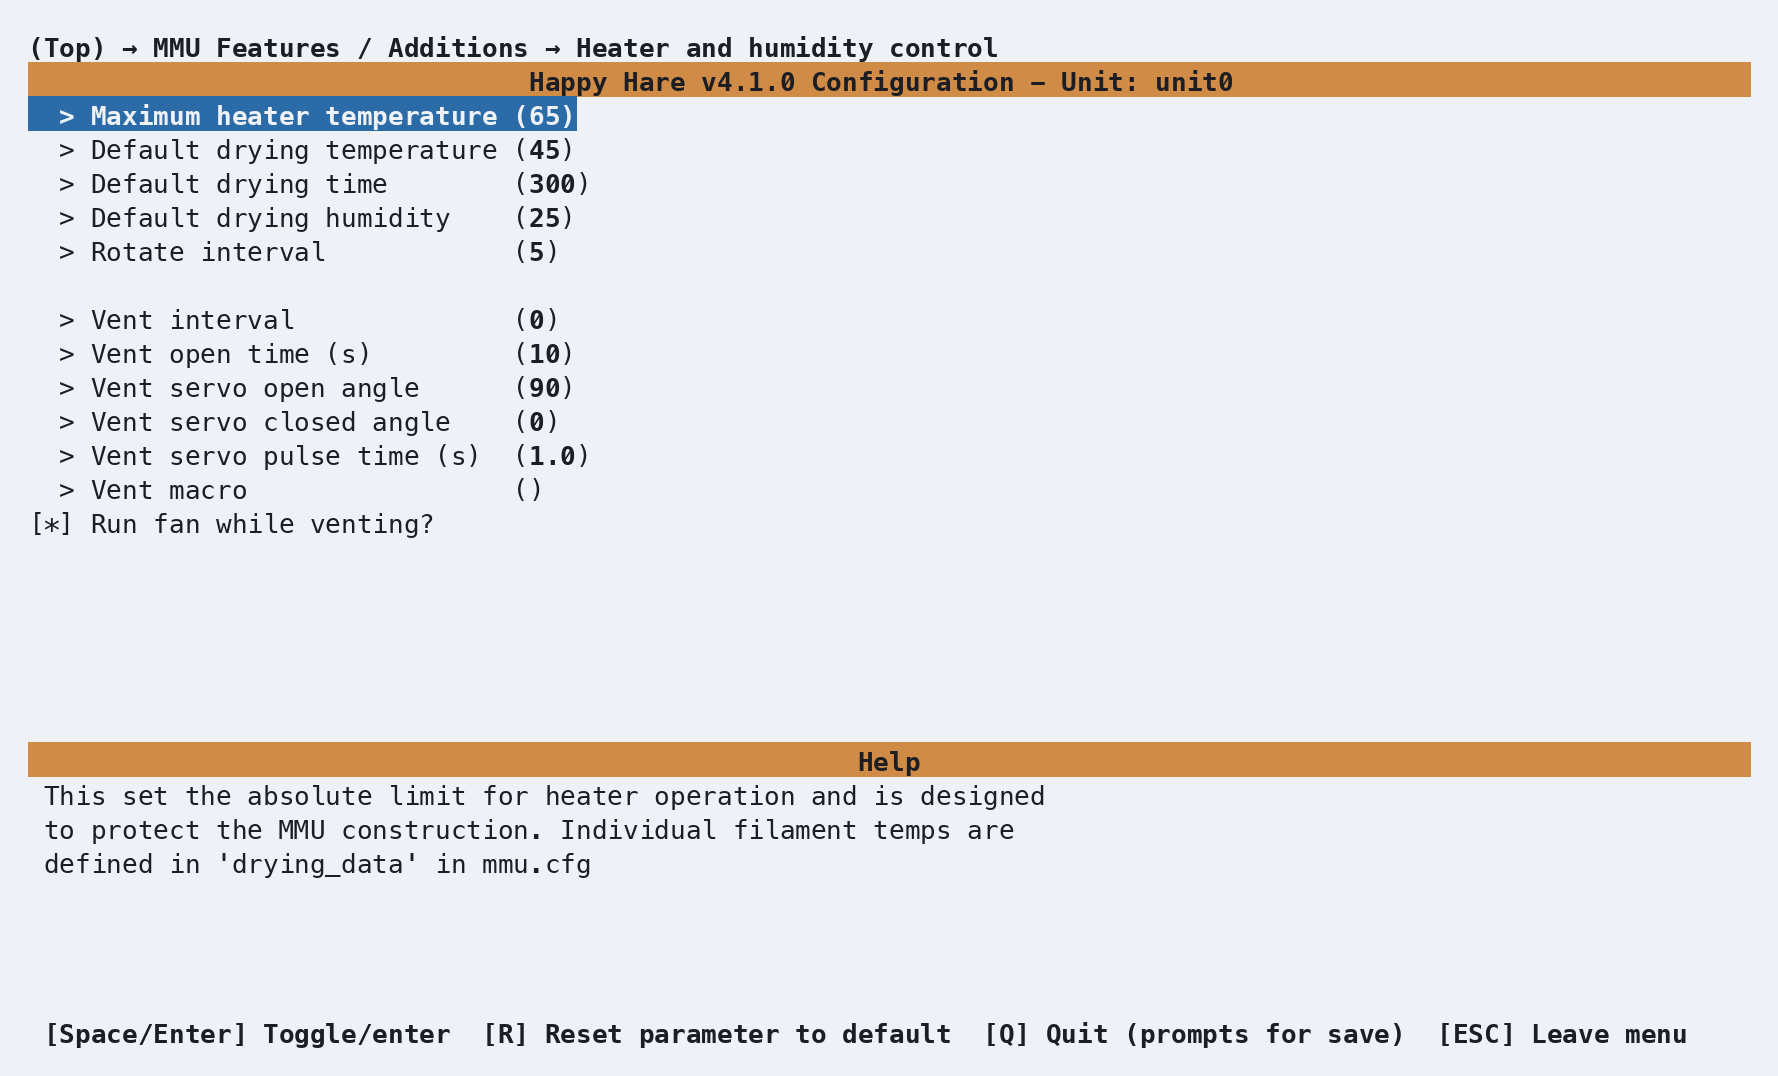
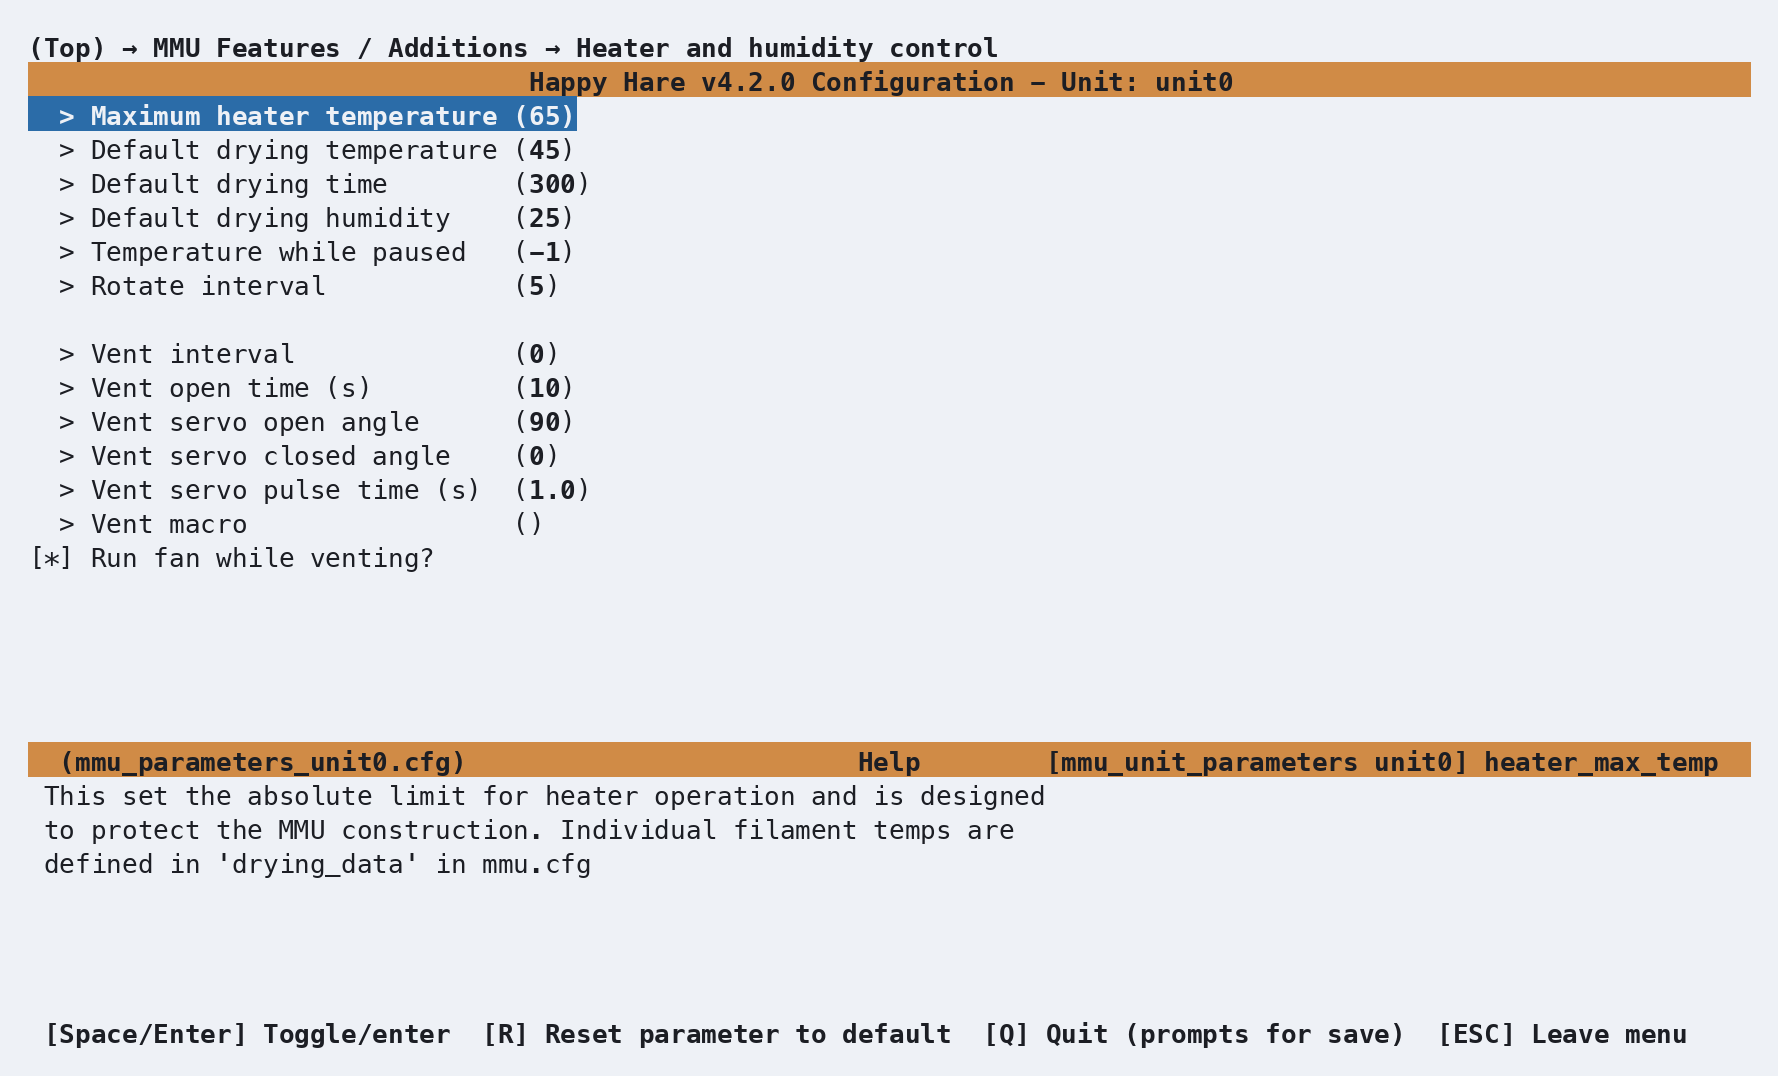
docs: explain drying heater temperature during print pauses

Changed region(s): [[0.0309, 0.2147, 0.3403, 0.5214], [0.5877, 0.7054, 0.9589, 0.7361], [0.0309, 0.7054, 0.2475, 0.7361]]

diff --git a/doc/Feature-Environment-Manager.md b/doc/Feature-Environment-Manager.md
@@ -162,7 +162,7 @@ The **Heater and humidity control** submenu contains the drying limits and
 defaults. A per-gate layout also shows **Maximum concurrent heaters** here.
 
 <p align="center">
-  <img src="Feature-Environment-Manager/heater-control.png" alt="Heater and humidity control: concurrency limit, drying defaults, venting and spool rotation settings" width="80%">
+  <img src="Feature-Environment-Manager/heater-control.png" alt="Heater and humidity control: drying defaults, pause temperature, venting and spool rotation settings" width="80%">
 </p>
 
 The heater controller's own tuning constants live in `mmu_parameters.cfg`;
@@ -174,6 +174,7 @@ heater_max_temp             : 65     # Absolute ceiling; drying never targets ab
 heater_default_dry_temp     : 45     # Fallback drying temperature for an unrecognized or empty gate
 heater_default_dry_time     : 300    # Fallback drying time in minutes
 heater_default_dry_humidity : 25     # Default humidity % goal - drying ends early if reached
+heater_pause_temp           : -1     # Print pause: -1 keeps drying, 0 turns heat off, positive value limits temperature
 heater_rotate_interval      : 5      # Minutes between spool-rotation bursts, requires eSpooler or spool-driving gear
 
 drying_data : { 'pla': (45, 300), 'pla+': (55, 300), 'petg': (60, 300), 'tpu': (55, 300), 'abs': (70, 300),
@@ -225,6 +226,36 @@ drying_data: {'PLA': (45, 240), 'PETG': (55, 300), 'NYLON': (65, 480)}
 - A material missing from the table falls back to `heater_default_dry_temp`
   and `heater_default_dry_time`, same as an unrecognized material would.
 
+### Drying during a print pause
+
+Set **Temperature while paused** under **Heater and humidity control**, or
+set `heater_pause_temp` in the unit's `mmu_parameters.cfg`:
+
+| Value | Drying heater behavior while the print is paused |
+|---|---|
+| `-1` (default) | Keep drying at the normal target |
+| `0` | Turn the drying heater off until resume |
+| Positive temperature in °C | Limit the target to this temperature; never raise a lower drying target |
+
+For example, `heater_pause_temp: 30` lowers a 50°C drying target to 30°C
+during a print pause, but leaves a 25°C target unchanged. With per-gate
+heaters, the limit applies separately to each active gate.
+
+Pause and resume changes take effect at the next environment check, within
+30 seconds. A drying cycle started while already paused uses the pause
+setting immediately. On resume, a cycle that is still running restores its
+drying target, subject to the shared-enclosure material cap, including any
+filament loaded during the pause.
+
+The drying timer keeps running while the print is paused, even with the
+heater off. A cycle that finishes during the pause does not restart on
+resume. Changing `MMU_HEATER TEMP=` during an active drying cycle updates
+the stored target, but the pause limit still applies until resume.
+
+This setting controls managed filament drying only. Raw heater control
+outside a drying cycle is unchanged. The hotend's separate pause timeout
+is controlled by [`disable_heater`](Reference-Parameters.md#misc).
+
 ## Commands
 
 ```text
@@ -261,8 +292,9 @@ gates queue and start automatically as active ones finish - the overall
 cycle can take longer than any single gate's own timer as a result.
 `TEMP=` on a gate behaves according to that gate's current state: queued -
 only the stored target changes, the heater doesn't turn on yet; active - the
-heater updates immediately; not part of the current cycle - it's just set
-immediately, same as raw single-heater control.
+heater updates immediately subject to the
+[print-pause limit](#drying-during-a-print-pause); not part of the current
+cycle - it's just set immediately, same as raw single-heater control.
 
 `MMU_HEATER STOP=1 GATES=1,3` cancelling only some gates behaves according
 to each gate's current state too: an **active** gate has its heater turned
@@ -294,7 +326,12 @@ Venting operational (opening for 10s every 15 minutes, next in 11 minutes; vent 
 Spool rotation enabled (running every 5 minutes, next in <1 minute)
 ```
 
-or, per-gate:
+While the print is paused with a drying temperature limit enabled,
+`MMU_HEATER` also reports `Paused: drying heater off until resume` or
+`Paused: drying heater limited to 30.0°C until resume` (using your configured
+limit). The reported drying target remains the target to restore on resume.
+
+A per-gate status report looks like this:
 
 ```{.text .console-output}
 MMU is in filament drying cycle:

diff --git a/doc/Release-Notes.md b/doc/Release-Notes.md
@@ -271,6 +271,8 @@ and the [development-only comparison](https://github.com/moggieuk/Happy-Hare/com
 
 ### Drying and configuration
 
+- Add optional `heater_pause_temp` to turn drying heaters off or lower their targets during a print pause. The default (`-1`) keeps drying unchanged; `0` turns heat off and positive values limit the temperature. Active drying targets return on resume, with material caps preserved; the drying timer keeps running. See [Drying during a print pause](Feature-Environment-Manager.md#drying-during-a-print-pause). ([#1468](https://github.com/moggieuk/Happy-Hare/pull/1468))
+
 - Cap shared-heater drying temperature by every gate holding filament, including gates not selected for drying. Add experimental `heater_rotate_in_print` for background rotation of empty idle gates on supported independent-gear machines; it remains off by default. See [Heater & Environment Manager](Feature-Environment-Manager.md#spool-rotation). ([#1327](https://github.com/moggieuk/Happy-Hare/pull/1327))
 - Preserve custom temperature-sensor and TMC driver options during Refresh, rebuilding affected sections when sensor or driver type changes. Preserve default vendor, TD, TD-1 color, RFID and spool-weight lists. ([#1405](https://github.com/moggieuk/Happy-Hare/pull/1405), [#1446](https://github.com/moggieuk/Happy-Hare/pull/1446), [#1450](https://github.com/moggieuk/Happy-Hare/pull/1450), [#1452](https://github.com/moggieuk/Happy-Hare/pull/1452))
 - Allow an existing user-owned `[save_variables]` section instead of generating a second one; keep the configured path consistent with its filename. ([#1455](https://github.com/moggieuk/Happy-Hare/pull/1455))

diff --git a/doc/Reference-Parameters.md b/doc/Reference-Parameters.md
@@ -428,6 +428,7 @@ full drying-cycle picture.
 | `heater_default_dry_temp` | `45`°C | Fallback drying temperature for an unmatched or empty gate |
 | `heater_default_dry_time` | `300` min | Fallback drying cycle time |
 | `heater_default_dry_humidity` | `25`% | Default humidity goal - drying ends early if reached |
+| `heater_pause_temp` | `-1` | Drying during a print pause: `-1` keeps the target, `0` turns heat off, positive values limit the target in °C. Timer keeps running; active drying targets return on resume. See [Drying during a print pause](Feature-Environment-Manager.md#drying-during-a-print-pause) |
 | `heater_vent_macro` | Empty with a vent servo, otherwise `_MMU_VENT` | Optional callback on opening and closing: `UNIT`, `OPEN`, and `GATES` with per-gate heaters |
 | `heater_vent_interval` | `0` min | Interval between vent openings during drying; `0` disables venting |
 | `heater_vent_duration` | `10` s | Time to leave the vent open |

diff --git a/maintainer/roadmap.md b/maintainer/roadmap.md
@@ -21,9 +21,13 @@ and menuconfig-only exclusions.
 
 ## Publication dependencies
 
-- All Happy Hare menuconfig screenshots target `development` at `12236421`
+- Except for the heater control menu below, Happy Hare menuconfig screenshots target `development` at `12236421`
   (2026-10-18), including the reorganized MMU Kinematics and Speeds menu.
   Regenerate with `make shots HAPPY_HARE_REF=12236421568777b9adafef69fb19d60cd6ec6eff`.
+
+- The heater control screenshot and print-pause drying behavior target Happy Hare
+  PR #1468, merged at `6c98916e`. Regenerate that menu with
+  `make shots HAPPY_HARE_REF=6c98916eab9ccf1d6be983a995b827da5fb2f26c ARGS='--only feature-environment-manager'`.
 
 - Fans & Airflow and Heater & Environment Manager prose was verified against
   Happy Hare `development` at `8888b228` (2026-10-07).

diff --git a/doc/Operation.md b/doc/Operation.md
@@ -211,6 +211,10 @@ On a pause:
   don't lose position while you're away from the printer), and the
   extruder for `disable_heater` seconds, both in `mmu.cfg`'s shared
   parameters.
+- A filament drying cycle keeps heating by default. Set
+  [`heater_pause_temp`](Feature-Environment-Manager.md#drying-during-a-print-pause)
+  to turn its heater off or lower its target during the pause. This is
+  separate from the hotend timeout; the drying timer continues running.
 
 <pre class="hh-mermaid">
 graph TD
